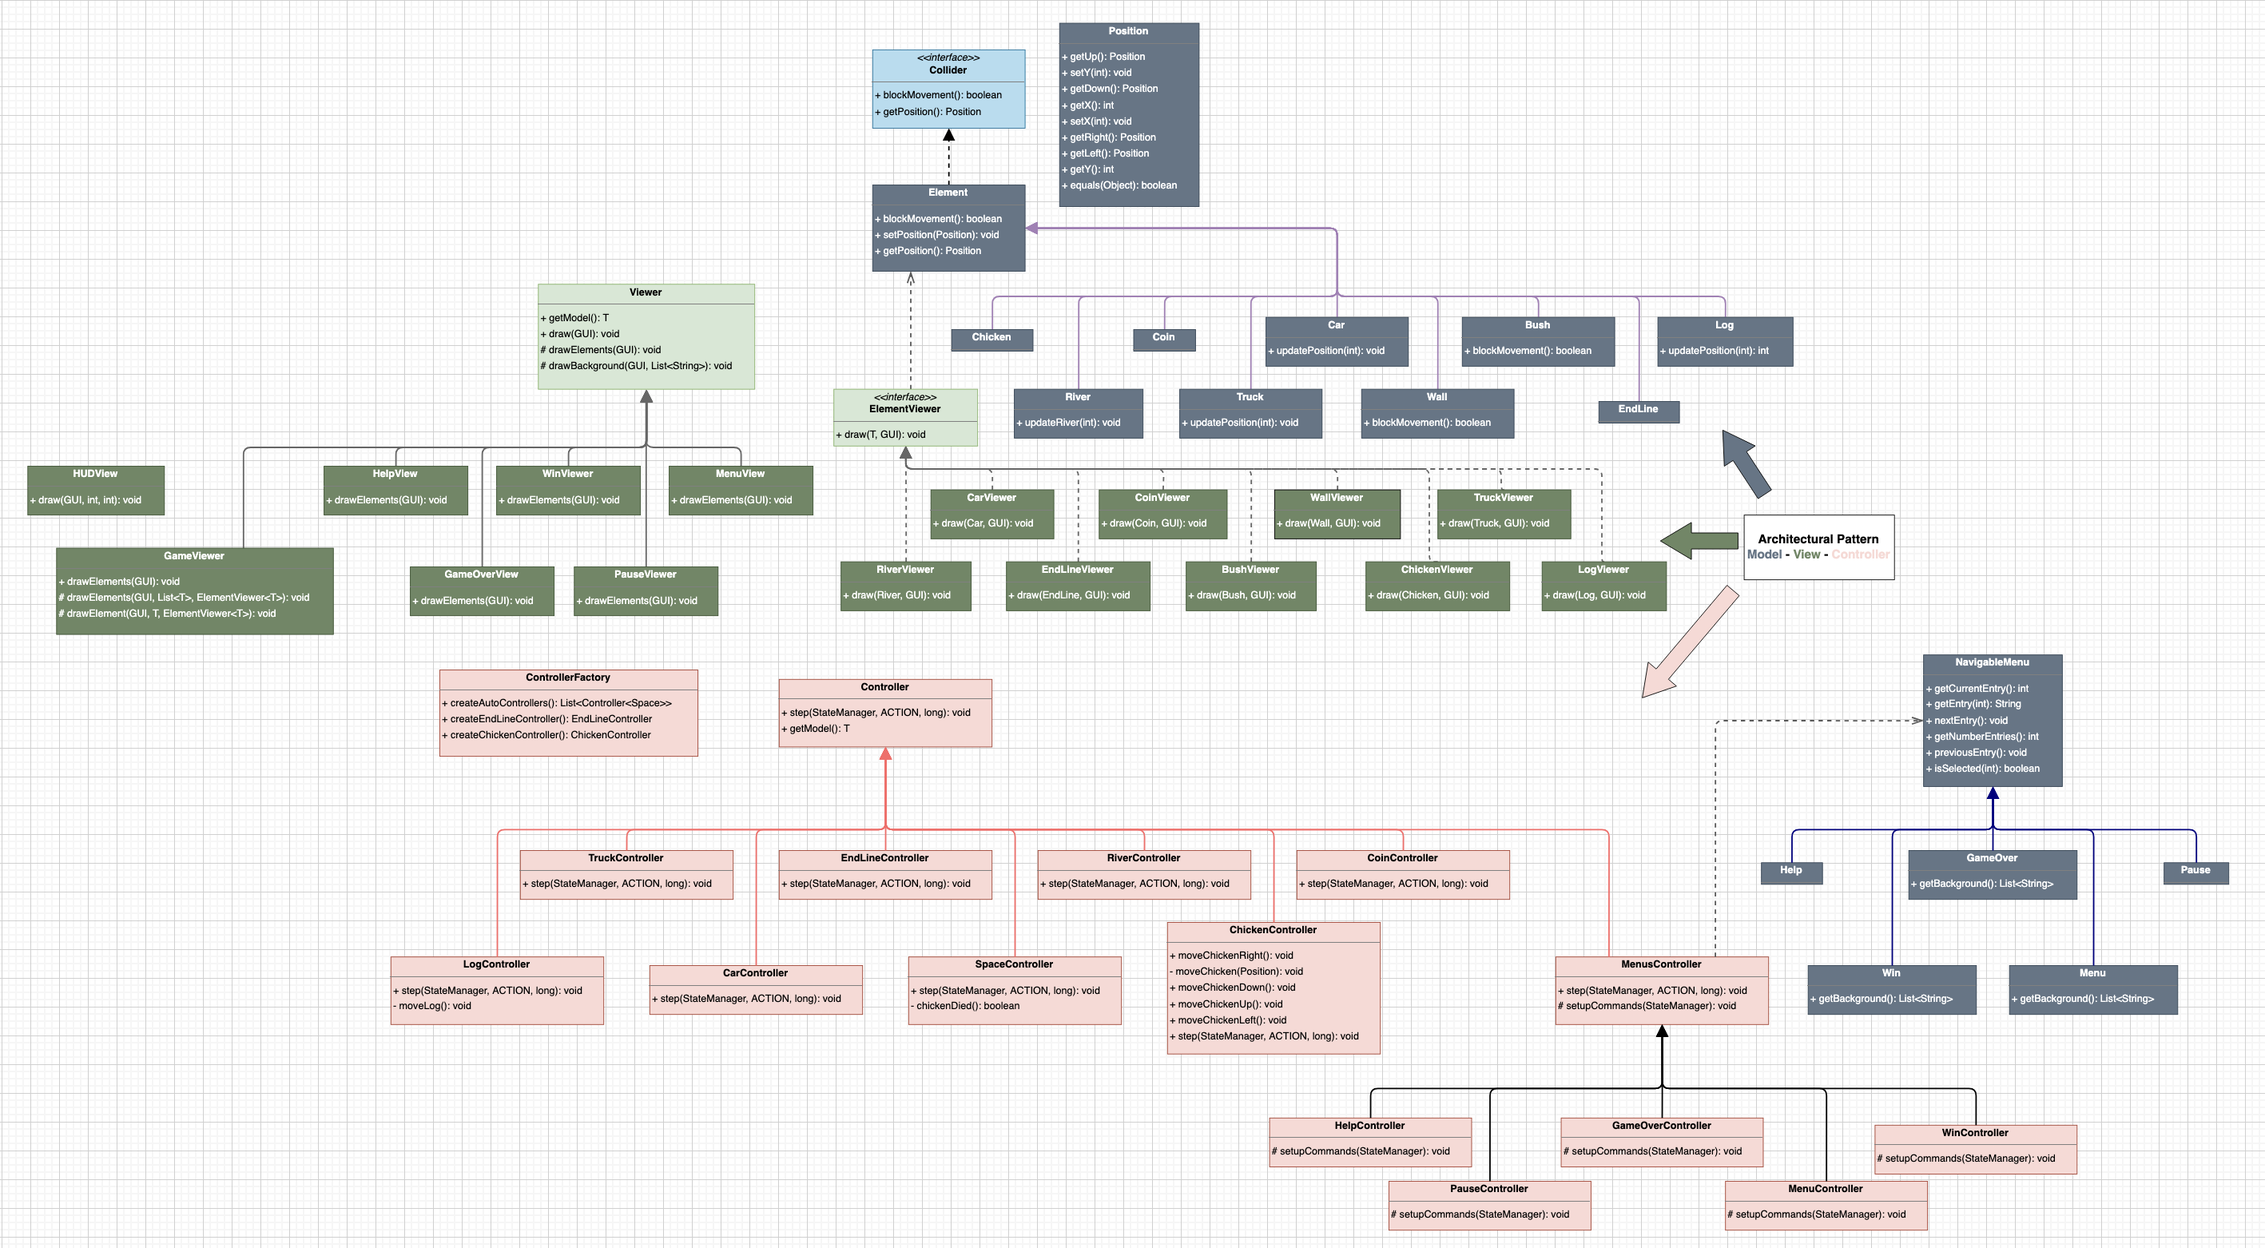
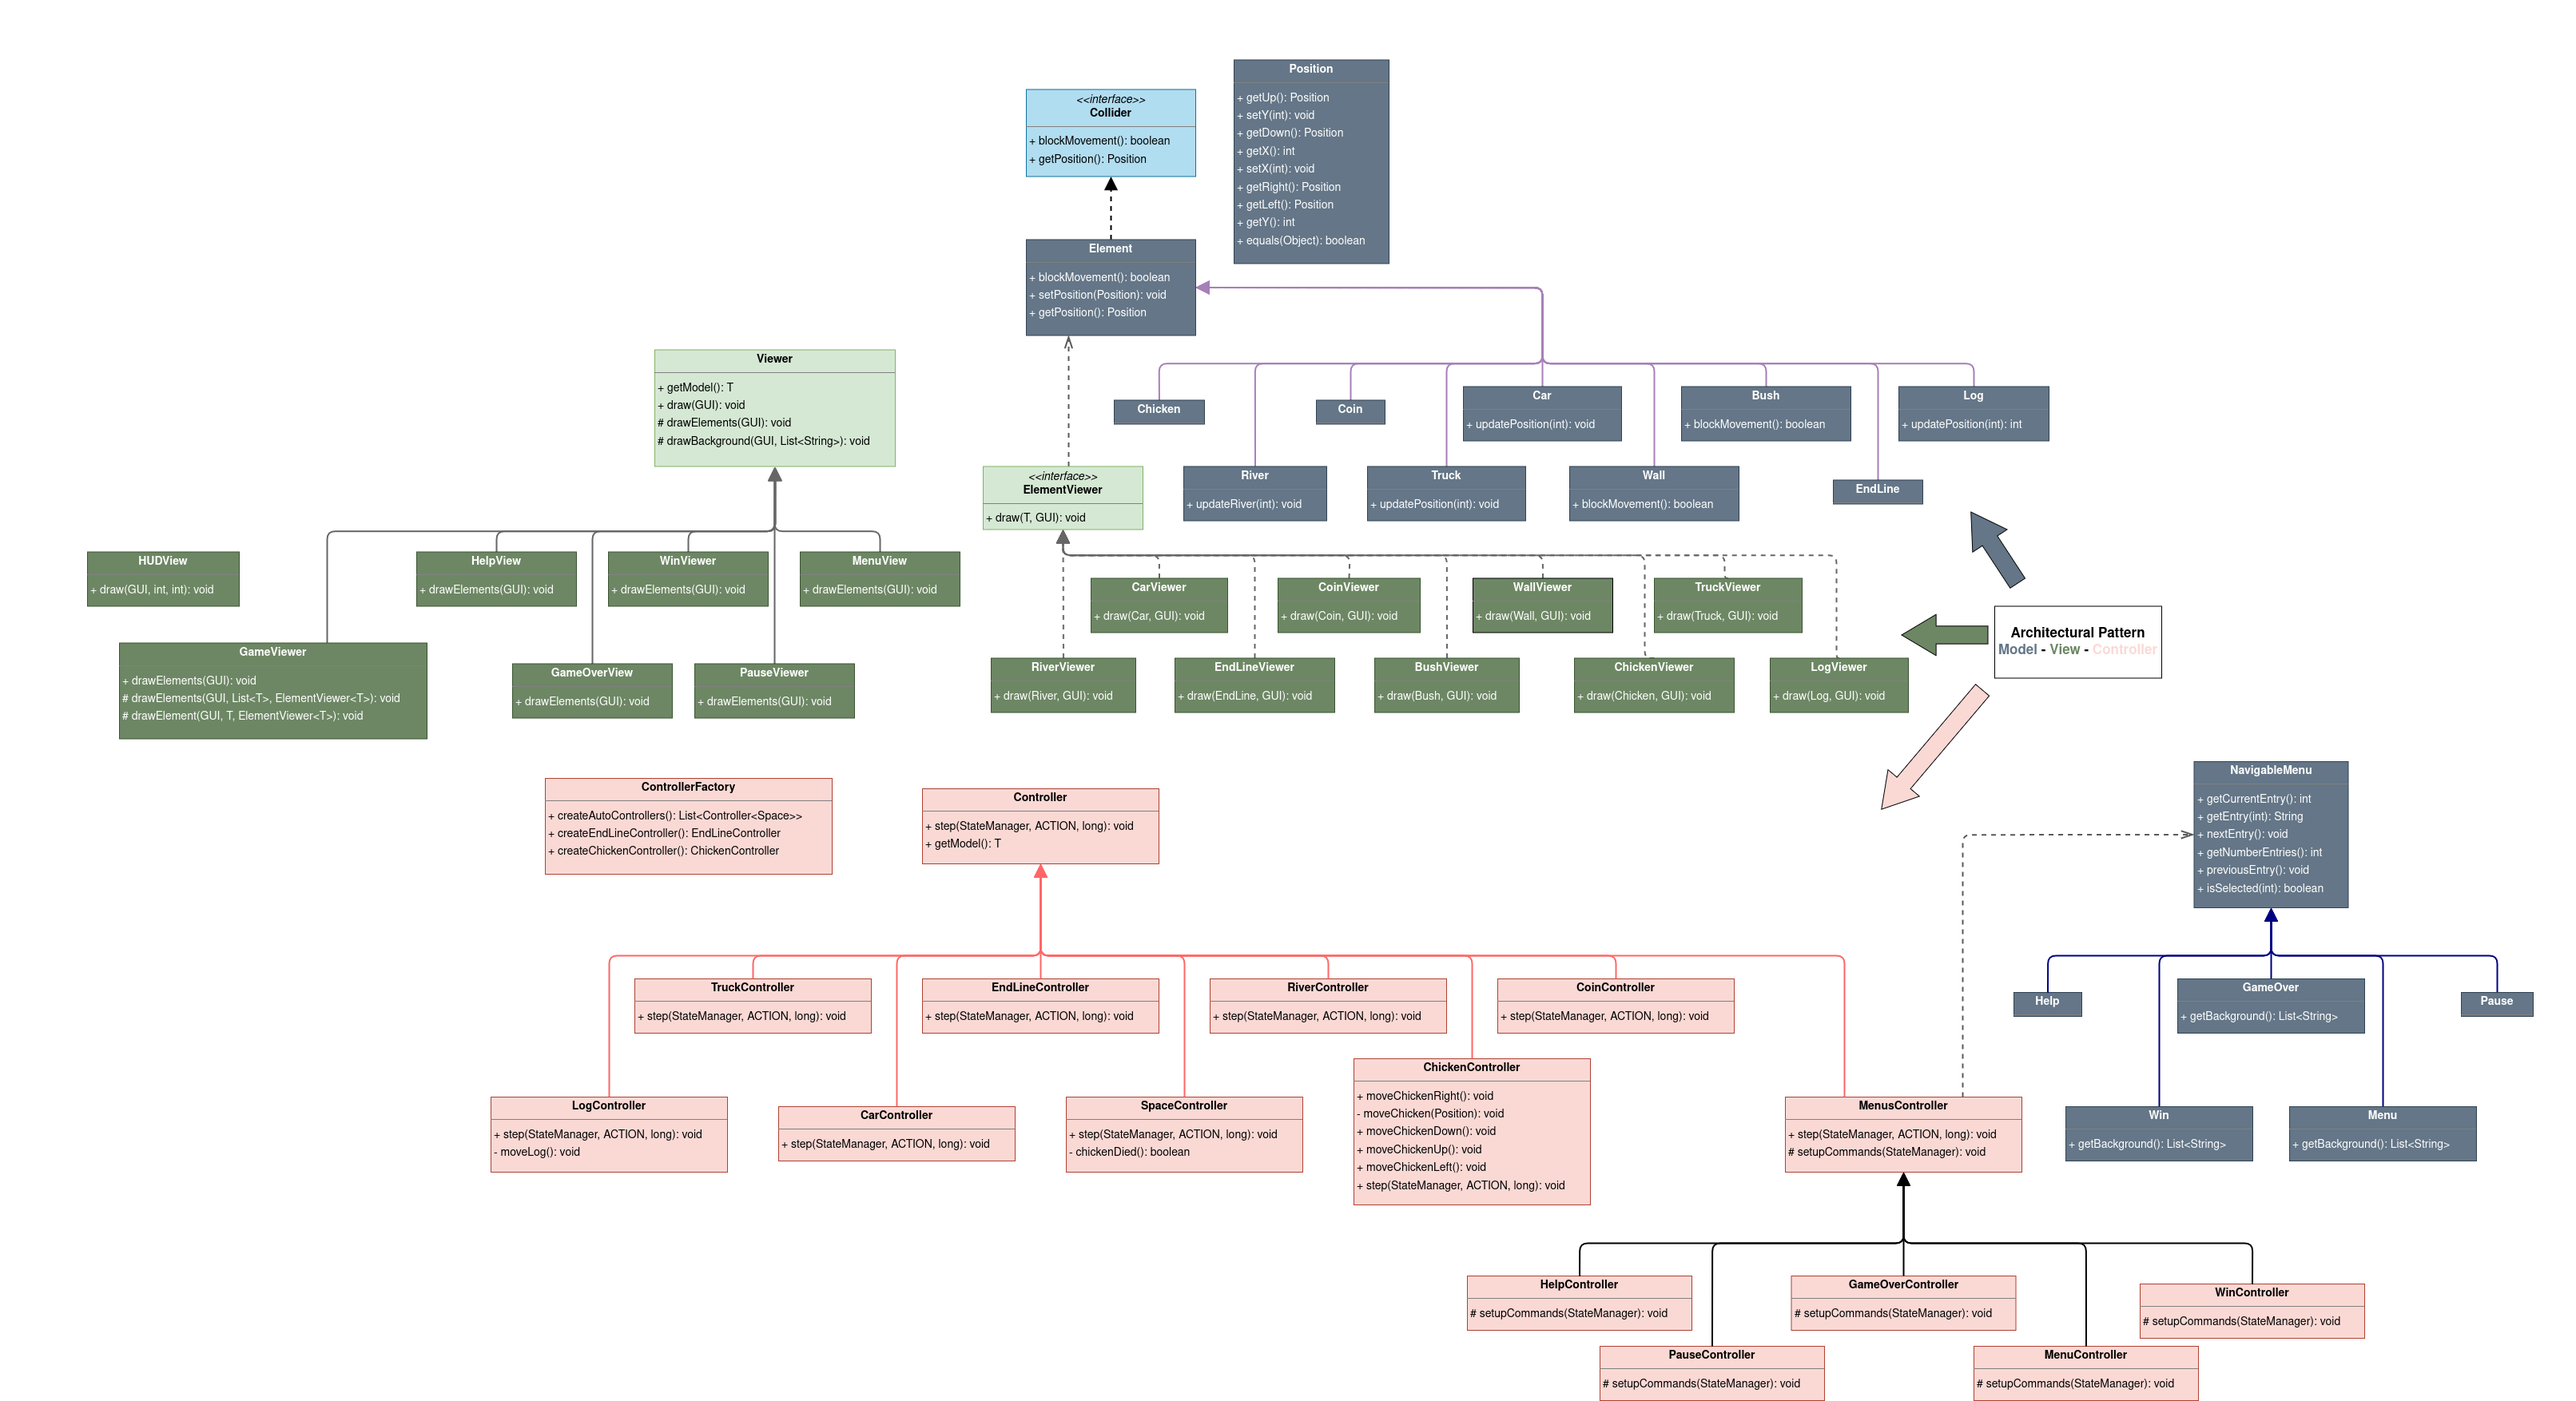
add images to readme

Changed region(s): [[0.0, 0.0, 0.9933, 1.0]]

diff --git a/docs/README.md b/docs/README.md
@@ -42,13 +42,15 @@ strategy and precision.
 - **State-Based Menus**  
   A complete UI system to navigate between **Main Menu**, **Help/Instructions**, **Pause**, **Victory**, and **Game Over** screens.
 
-## Planned Features
-***
-All the planned features were successfully implemented.
-
 ## Design Patterns
 
 Our architecture relies heavily on well-established software design patterns to ensure **modularity**, **maintainability**, and **scalability**. Below are the specific patterns applied, their location in the codebase, and the architectural problems they solved.
+<p align="center" justify="center">
+<img src="images/UML%20FINAL.png">
+</p>
+<p align="center">
+  <b><i>Fig. 1 MVC - Architectural Pattern  </i></b>
+</p>
 
 ---
 
@@ -75,8 +77,11 @@ We separated the code into three distinct layers:
 **Benefit:**  
 This separation allows us to test game logic (Models and Controllers) without initializing the GUI and makes the codebase easier to understand, maintain, and extend.
 
-<p>
+<p align="center" justify="center">
 <img src="images/MVC.png">
+</p>
+<p align="center">
+  <b><i>Fig. 2 MVC - Architectural Pattern  </i></b>
 </p>
 
 
@@ -99,8 +104,11 @@ We implemented the **State Pattern**, delegating the game logic execution to the
 **Benefit:**  
 New screens (for example, a *High Scores* screen) can be added by introducing a new state class, without modifying the existing game loop logic.
 
-<p>
+<p align="center" justify="center">
 <img src="images/StatePattern.png">
+</p>
+<p align="center">
+  <b><i>Fig. 3 State Pattern </i></b>
 </p>
 
 
@@ -127,8 +135,11 @@ This approach clearly separates concerns:
 
 As a result, the system becomes easier to extend, test, and maintain. New actions or state transitions can be introduced by adding new commands without modifying existing GUI or state management logic.
 
-<p>
+<p align="center" justify="center">
 <img src="images/CommandPattern.png">
+</p>
+<p align="center">
+  <b><i>Fig. 4  Command Pattern </i></b>
 </p>
 
 
@@ -148,8 +159,11 @@ We defined a family of interchangeable movement algorithms using the **Strategy 
 **Benefit:**  
 Movement logic can be changed dynamically (for example, from linear to zigzag motion) by swapping strategy objects, promoting **Composition over Inheritance**.
 
-<p>
-<img src="images/StrategyPattern.png">
+<p align="center" justify="center">
+ <img src="images/StrategyPattern.png" alt="Strategy Pattern">
+</p>
+<p align="center"> 
+<b><i>Fig. 5 Strategy Pattern</i></b>
 </p>
 
 
@@ -169,8 +183,11 @@ We used the **Builder Pattern** to construct the `Space` object step by step. Th
 **Benefit:**  
 This separates the construction process from the final object representation, ensures that all `Space` instances are valid, and allows different level layouts to be created using the same construction process.
 
-<p>
+<p align="center" justify="center">
 <img src="images/BuilderPattern.png">
+</p>
+<p align="center">  
+<b><i>Fig.6 Builder Pattern</i></b>
 </p>
 
 
@@ -190,8 +207,11 @@ We implemented a controlled **Game Loop Pattern** that updates the game state at
 **Benefit:**  
 This guarantees consistent gameplay timing and a smooth experience regardless of the player’s hardware.
 
-<p>
+<p align="center" justify="center">
 <img src="images/GameLoopPattern.png">
+</p>
+<p align="center">
+  <b><i>Fig.7 Game Loop Pattern</i></b>
 </p>
 
 
@@ -213,8 +233,11 @@ The `StateFactory` (and its concrete implementation `GeneralStateFactory`) encap
 **Benefit:**  
 This approach decouples object creation from object usage, promotes consistency across the application, and simplifies the addition of new states or controllers without impacting existing code.
 
-<p>
+<p align="center" justify="center">
 <img src="images/FactoryPattern.png">
+</p>
+<p align="center">
+  <b><i>Fig.8 Factory Pattern</i></b>
 </p>
 
 ---
@@ -234,11 +257,12 @@ We defined a `GUI` interface representing the operations required by the applica
 **Benefit:**  
 The application depends only on the `GUI` abstraction, not on a concrete UI framework. This enables easy replacement or extension of the graphical backend without modifying game logic, reinforcing the **Dependency Inversion Principle**.
 
-<p>
+<p align="center" justify="center">
 <img src="images/AdapterPattern.png">
 </p>
-
-
+<p align="center">
+  <b><i>Fig.9 Adapter Pattern</i></b>
+</p>
 ---
 
 ## 9. Template Method Pattern
@@ -290,8 +314,13 @@ This allows the game engine to operate on individual elements and groups of elem
 **Benefit:**  
 This design simplifies iteration over game objects and enables uniform handling of diverse elements. While not a strict Composite implementation, it exhibits key characteristics of the pattern and improves structural consistency.
 
-<p>
-<img src="images/CompositePattern.png">
+
+
+<p align="center" justify="center">
+  <img src="/docs/images/CompositePattern.png"/>
+</p>
+<p align="center">
+  <b><i>Fig.10 Composite Pattern</i></b>
 </p>
 
 
@@ -323,25 +352,33 @@ Primitive Obsession:
 ***
 
 ### Test with Coverage 
+<p align="center" justify="center">
+  <img src="/docs/images/coverage1.png"/>
+</p>
 <p align="center">
-<img src="/docs/images/cover_1.jpeg">
-<p align="center">
-<b><i>Fig 4. Coverage Testing </i></b>
+  <b><i>Fig. 11 Coverage Testing </i></b>
 </p>
 
 <p align="center" justify="center">
-  <img src="/docs/images/Coverage_2.jpeg"/>
+  <img src="/docs/images/coverage2.png"/>
 </p>
 <p align="center">
-  <b><i>Fig 5. Coverage Testing </i></b>
+  <b><i>Fig. 12 Coverage Testing </i></b>
+</p>
+
+<p align="center" justify="center">
+  <img src="/docs/images/coverage3.png"/>
+</p>
+<p align="center">
+  <b><i>Fig. 13 Coverage Testing </i></b>
 </p>
 
 
 ### Mutation testing
-<p align="center">
-<img src="images/pitest.png">
-</p>
-## Self-evaluation
+
+<p align="center"> <img src="images/pitest.jpeg" alt="Mutation testing results"> </p> <p align="center"> <b><i>Fig. 14. Mutation Tests</i></b> </p>
+
+### Self-evaluation
 ***
 
 The work was divided in a mutual way, and we all contributed with our best. It helped us to enrich our
